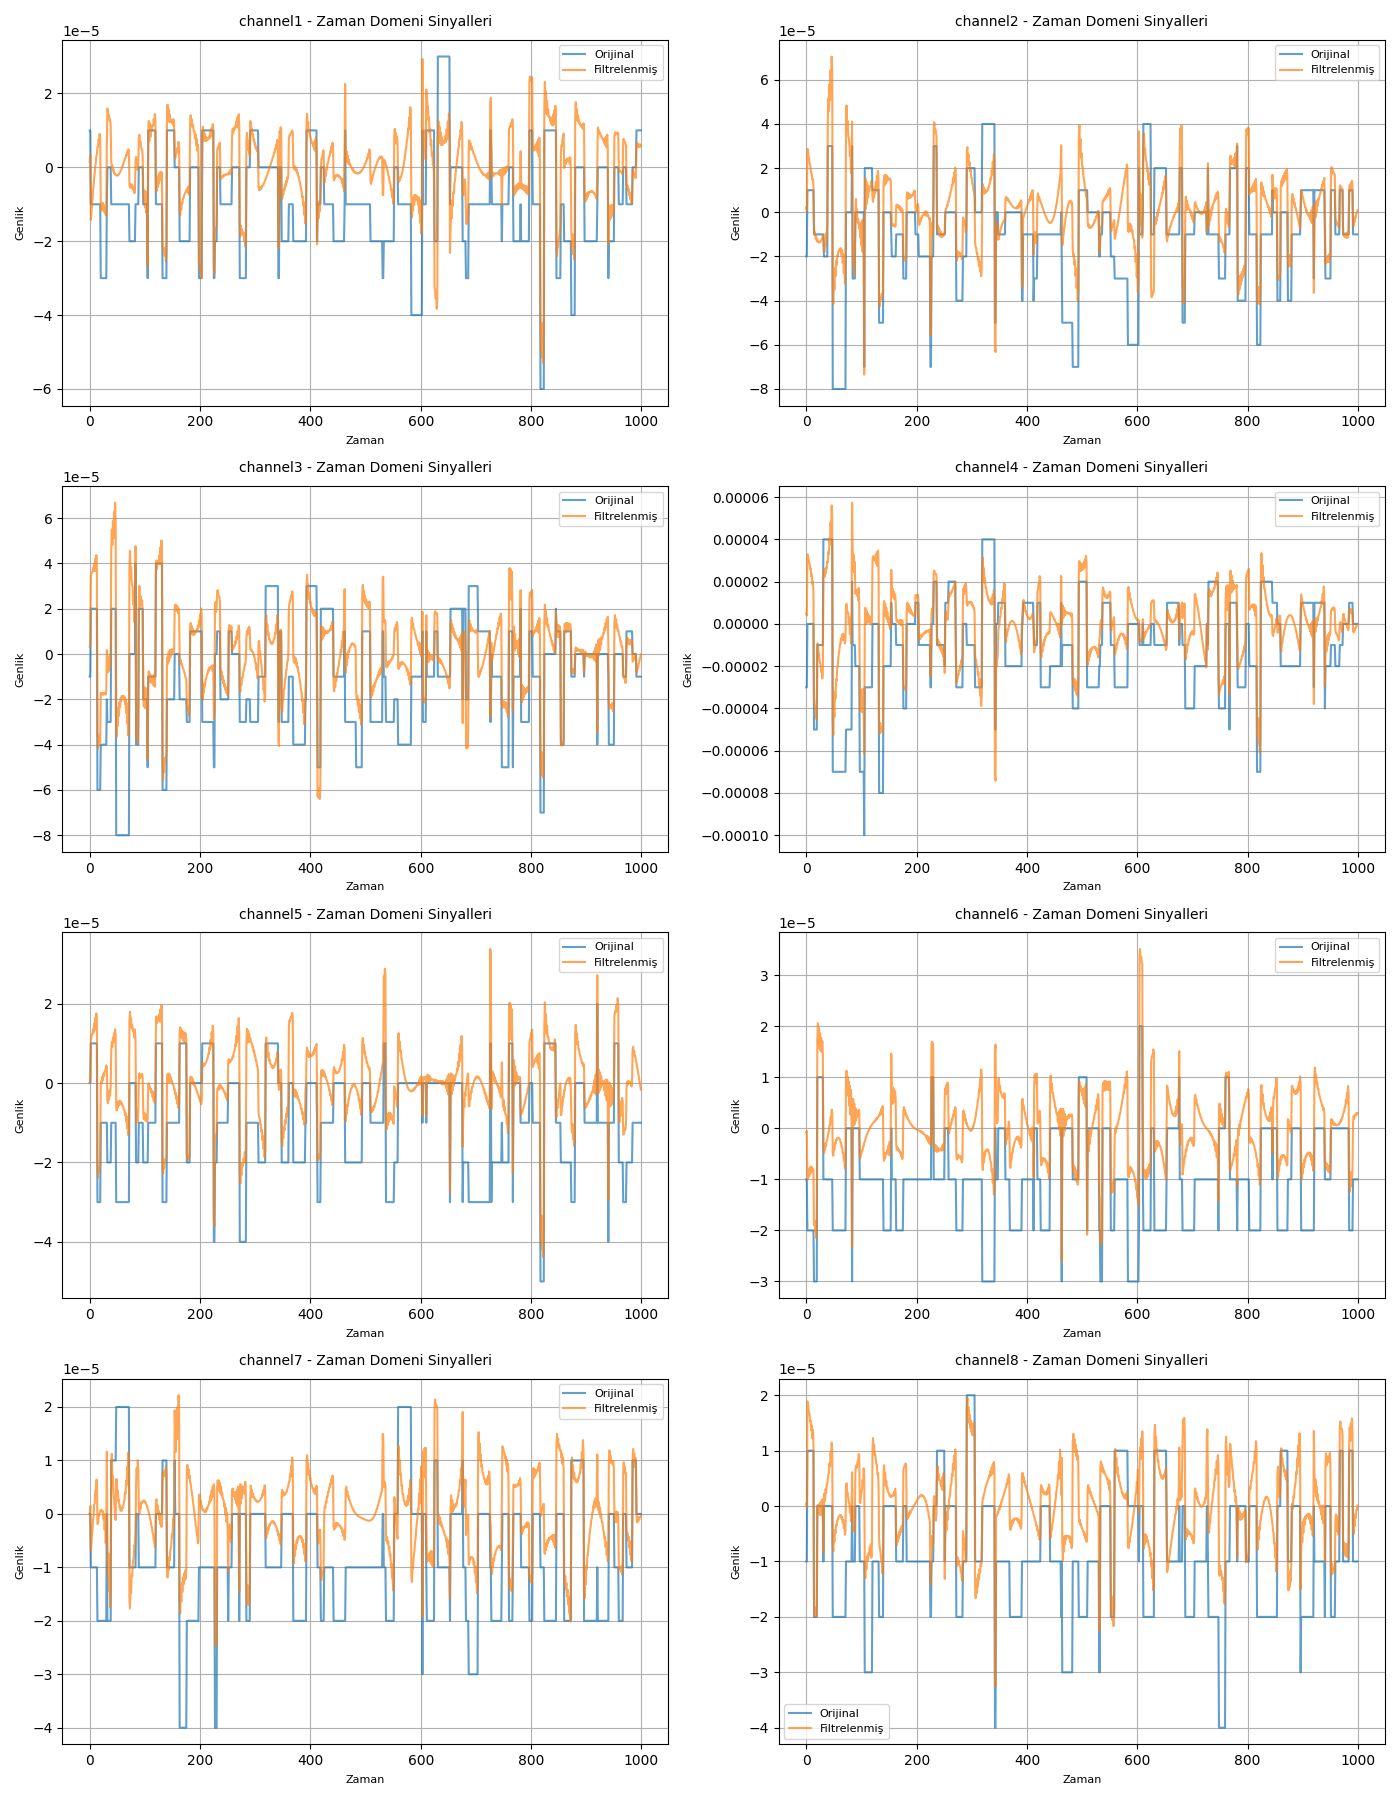
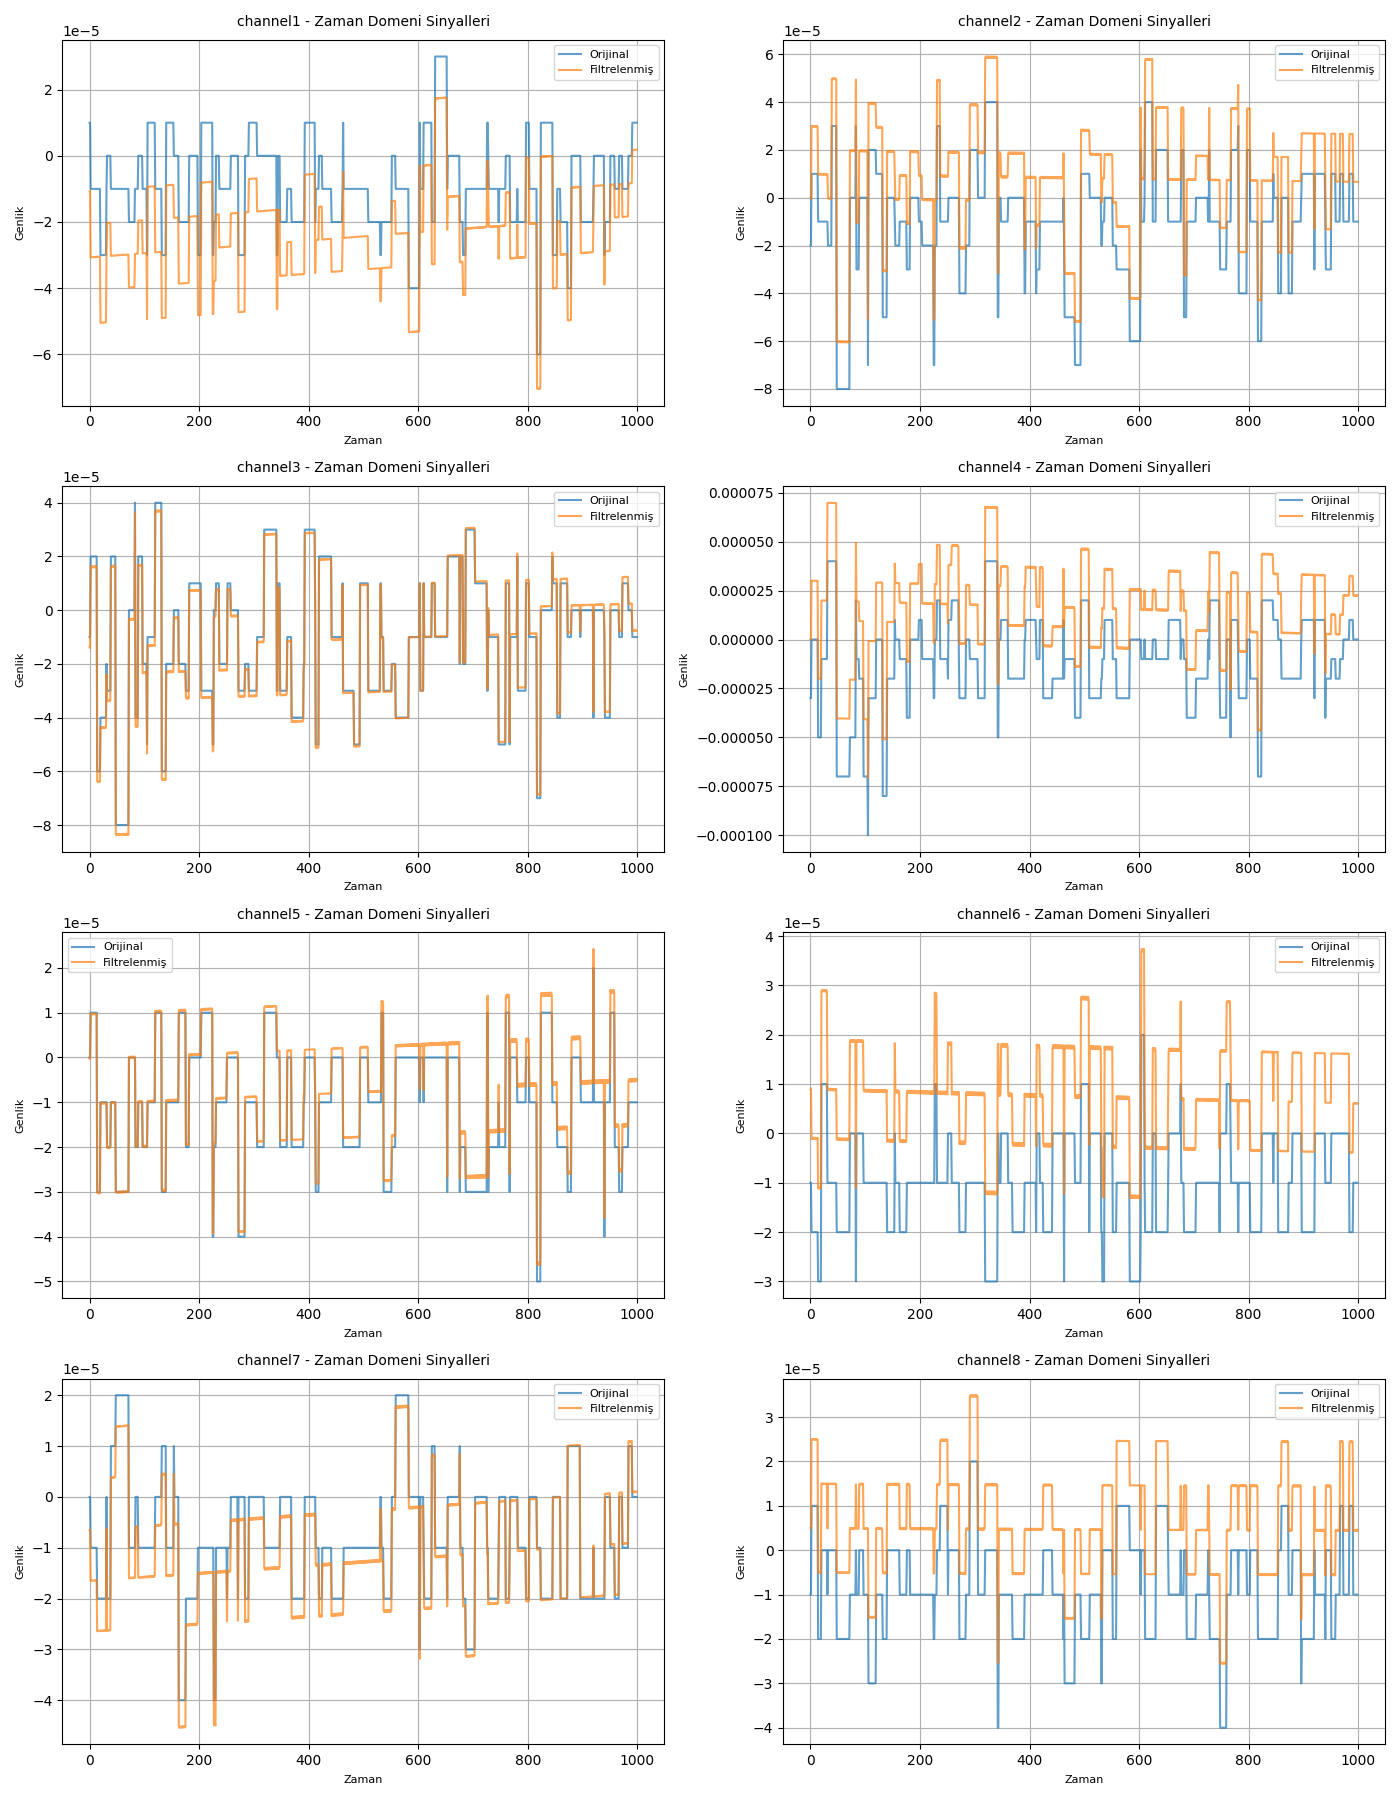
last updates

diff --git a/main.py b/main.py
@@ -30,7 +30,7 @@ def main(file_path):
     # Filtreleme işlemi
     print("Tüm kanallar için band geçiren filtre uygulanıyor...")
     filter_processor = DatasetFilter(data, channels, sampling_rate=1000)
-    filter_processor.filter_all_channels(filter_type="band", cutoff=(20, 450), order=4)
+    filter_processor.filter_all_channels(filter_type="band", cutoff=(0.1, 499), order=4)
     filtered_data = filter_processor.get_filtered_data()
 
     # Grafikler
